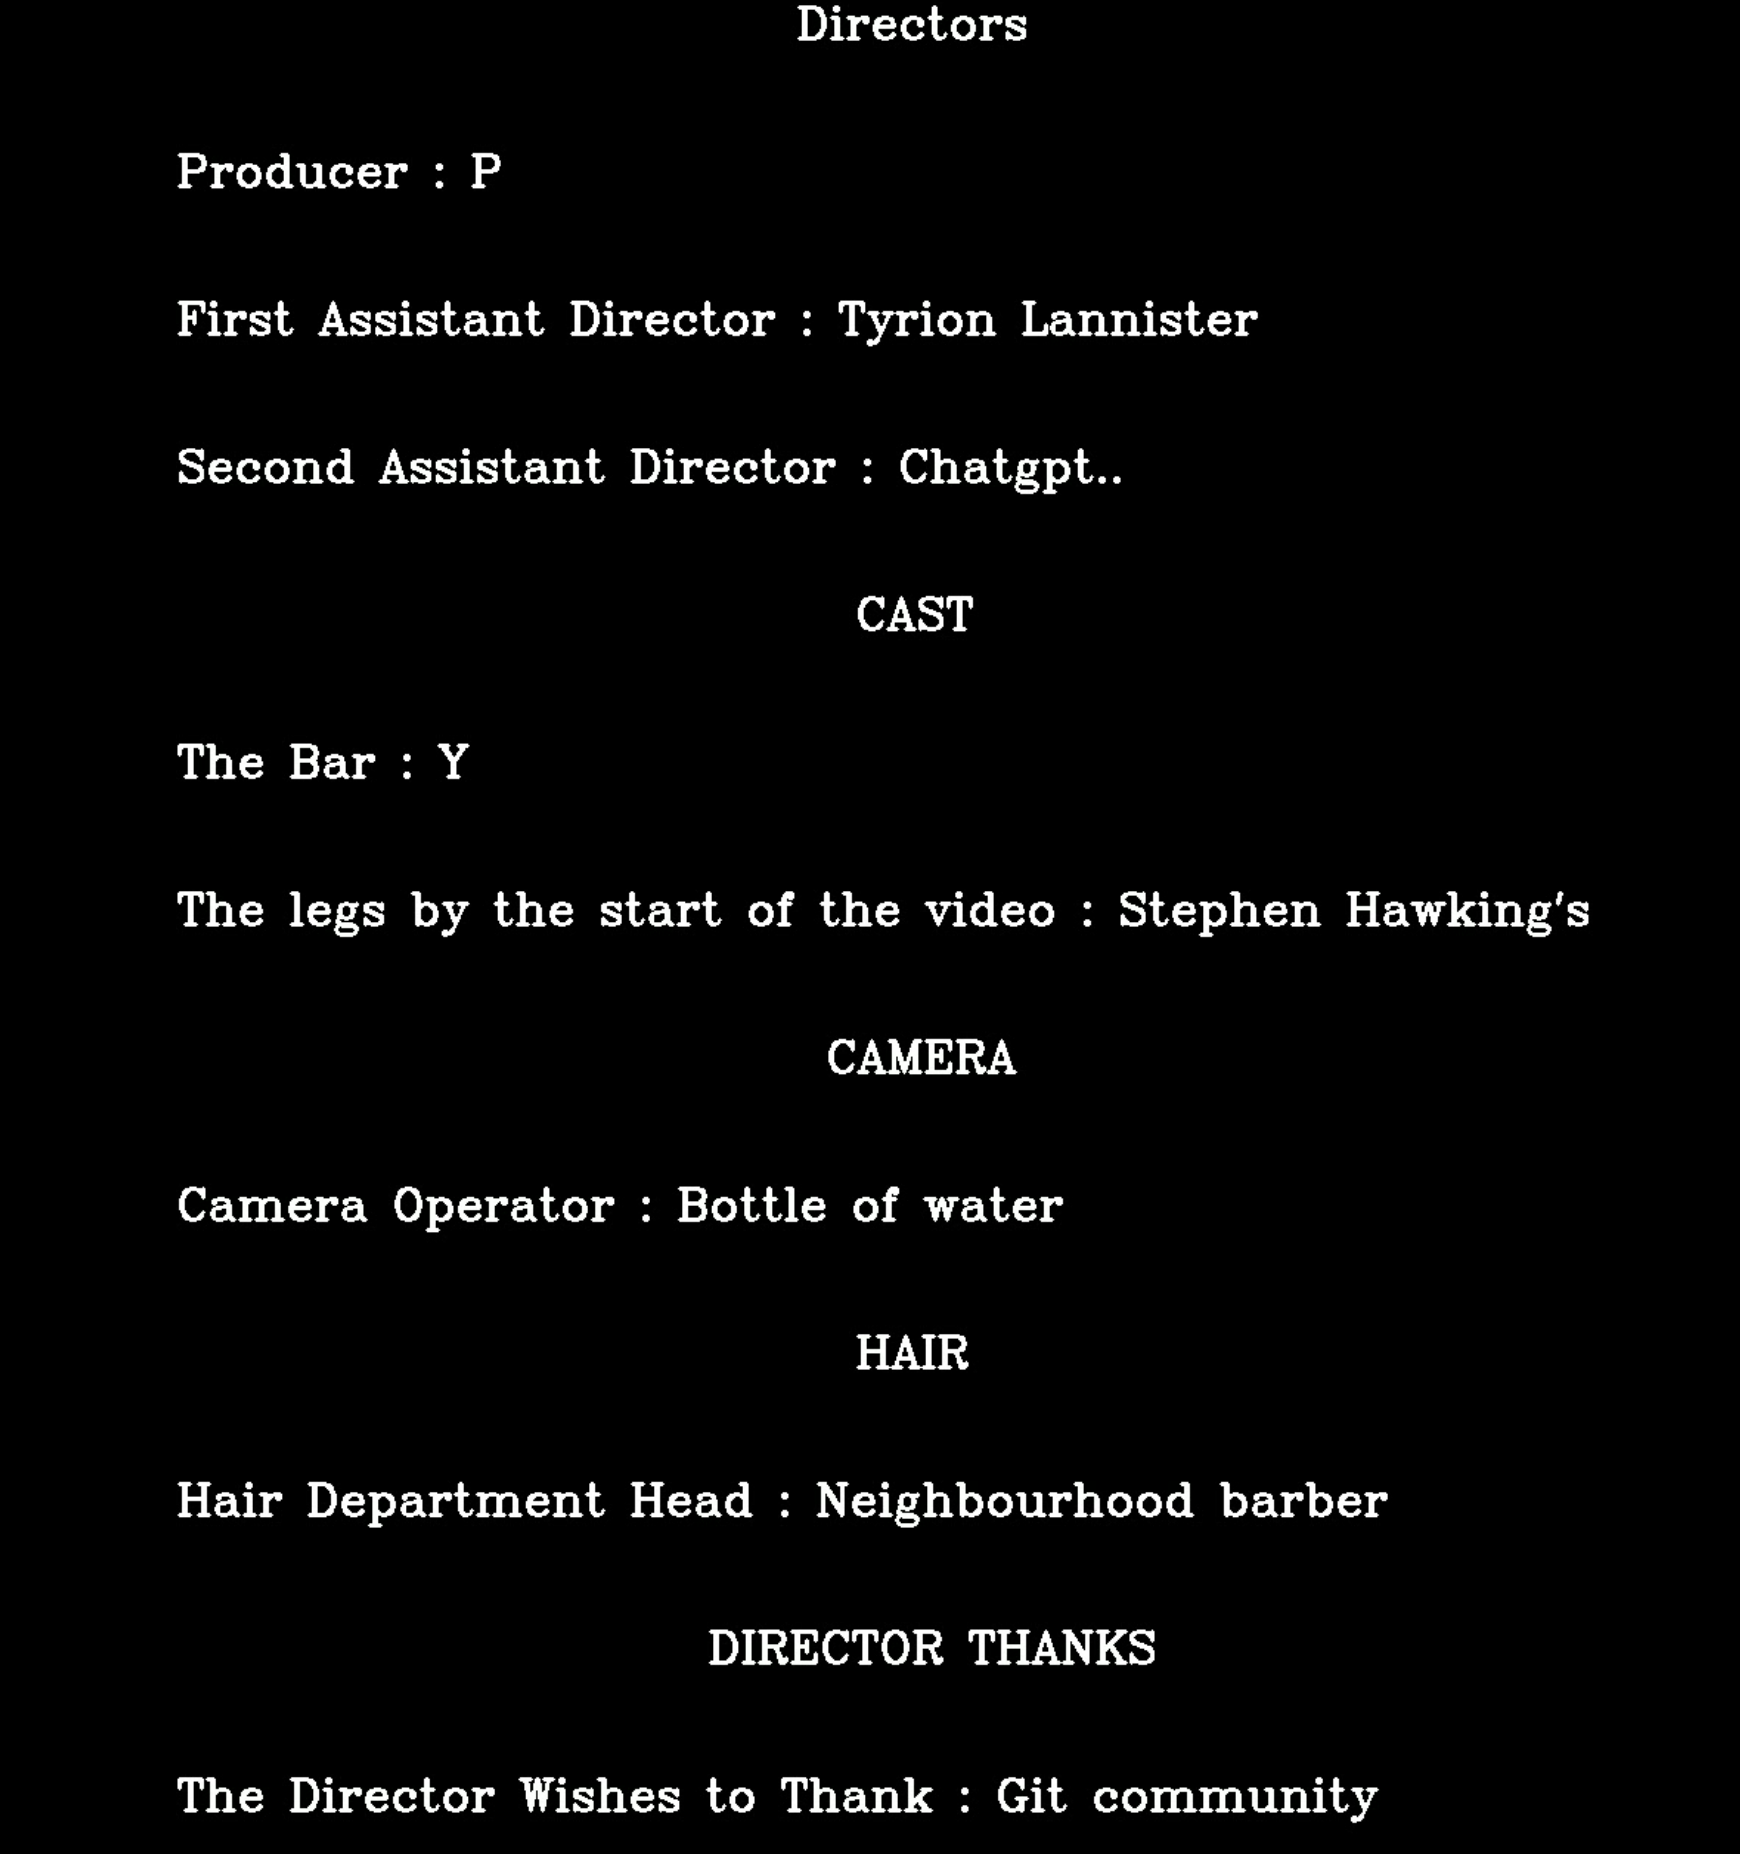
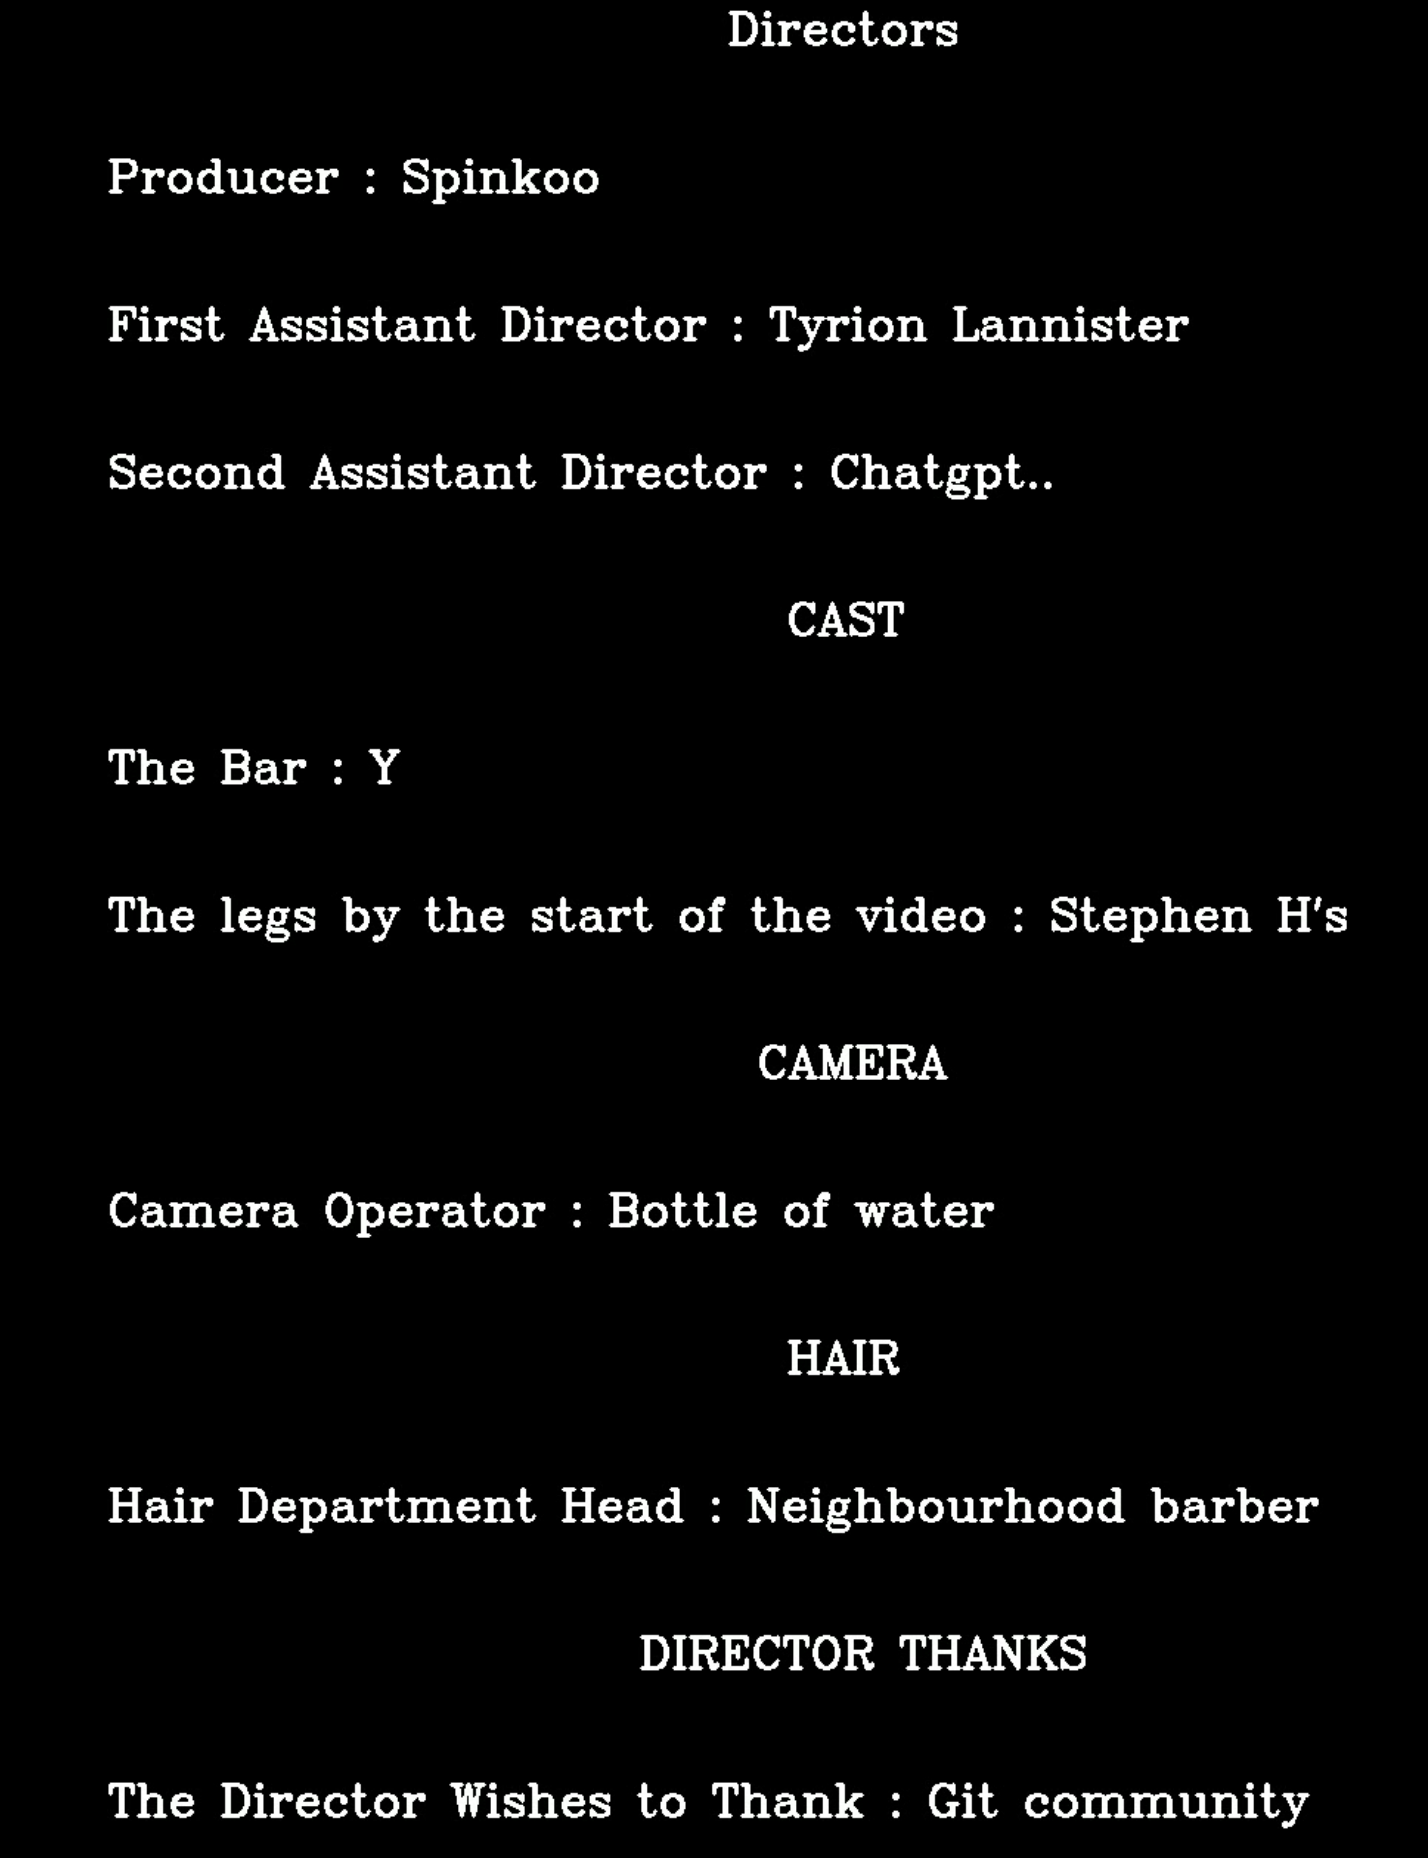
fixed example

diff --git a/data_reader.py b/data_reader.py
@@ -47,12 +47,12 @@ def read_credits_static():
     # Example usage
     return {
         "Directors": "",
-        "Producer": "P",
+        "Producer": "Spinkoo",
         "First Assistant Director": "Tyrion Lannister",
         "Second Assistant Director": "Chatgpt..",
         "CAST": "",
         "The Bar": "Y",
-        "The legs by the start of the video": "Stephen Hawking's",
+        "The legs by the start of the video": "Stephen H's",
         "CAMERA":"",
         "Camera Operator":"Bottle of water",
         "HAIR":"",

diff --git a/credits.py b/credits.py
@@ -2,7 +2,7 @@ import cv2
 import numpy as np
 from data_reader import read_credits_static, read_credits_from_excel, read_credits_from_csv
 
-CREDIT_TYPE = "excel"
+CREDIT_TYPE = "static"
 
 
 def create_credits_video(credits_dict, output_file, video_size=(720, 1280), fps=30, duration_per_line=1, bg_color=(0, 0, 0), text_color=(255, 255, 255), font=cv2.FONT_HERSHEY_SIMPLEX, font_scale=1, thickness=2):
